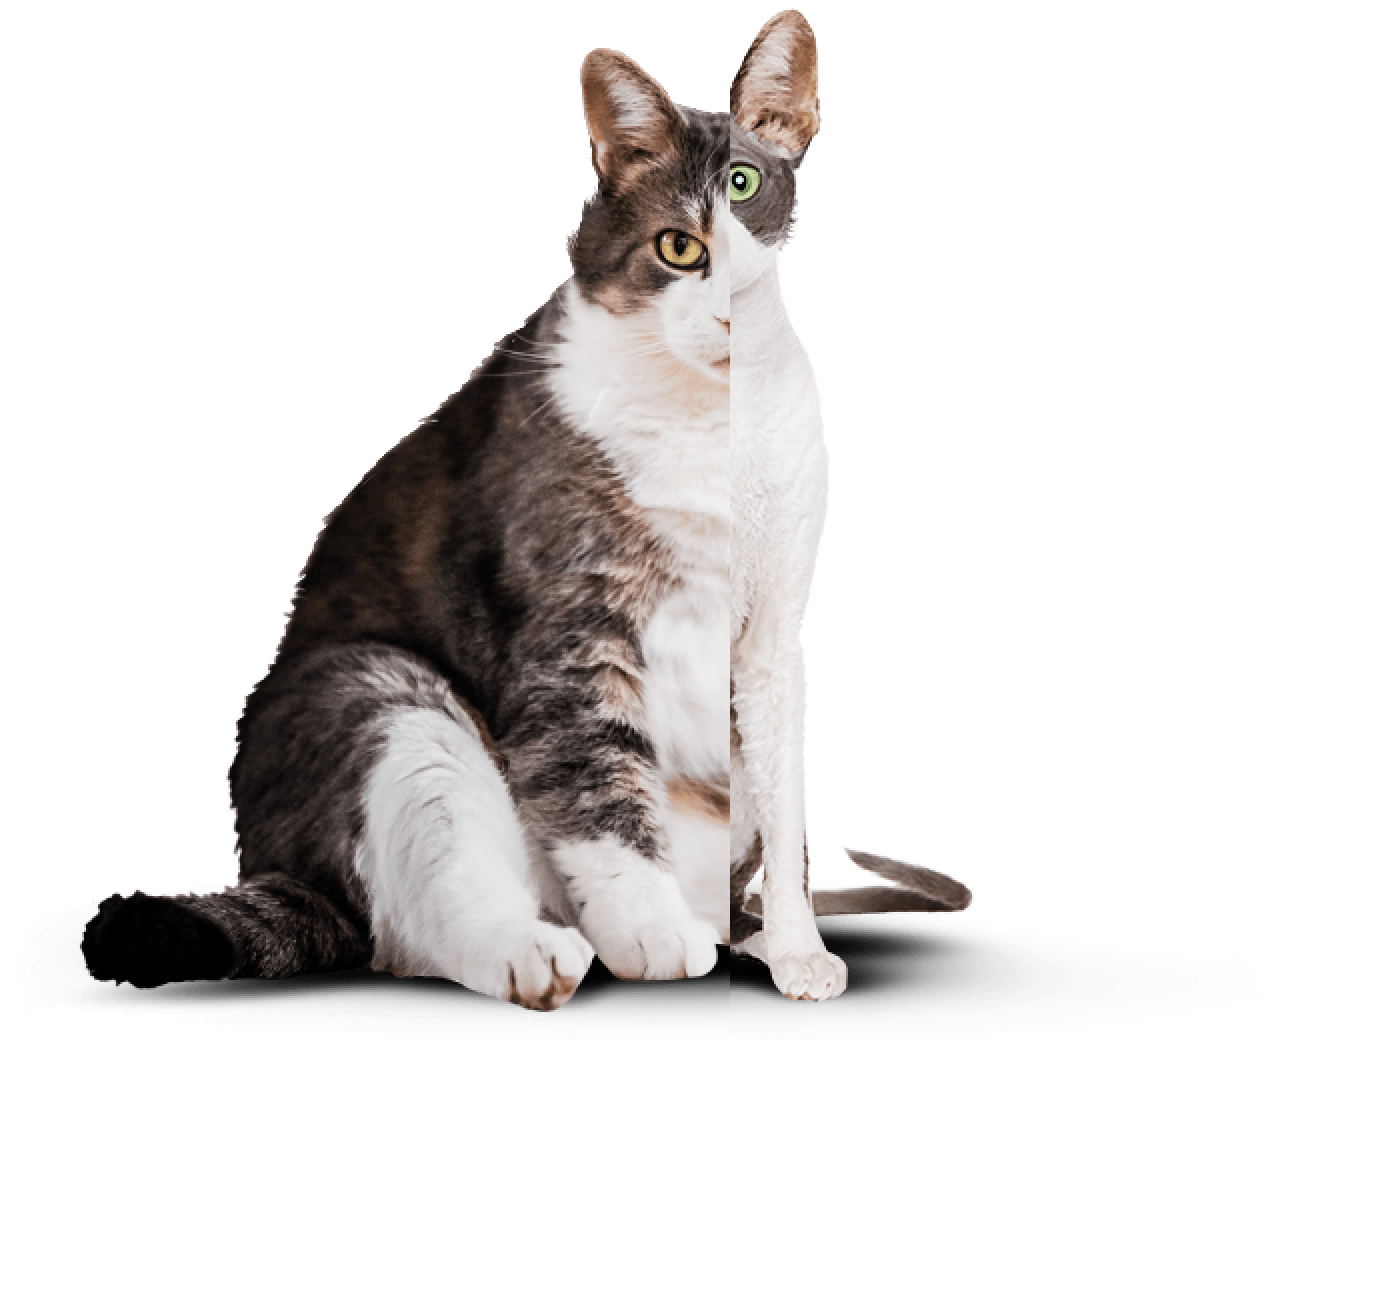
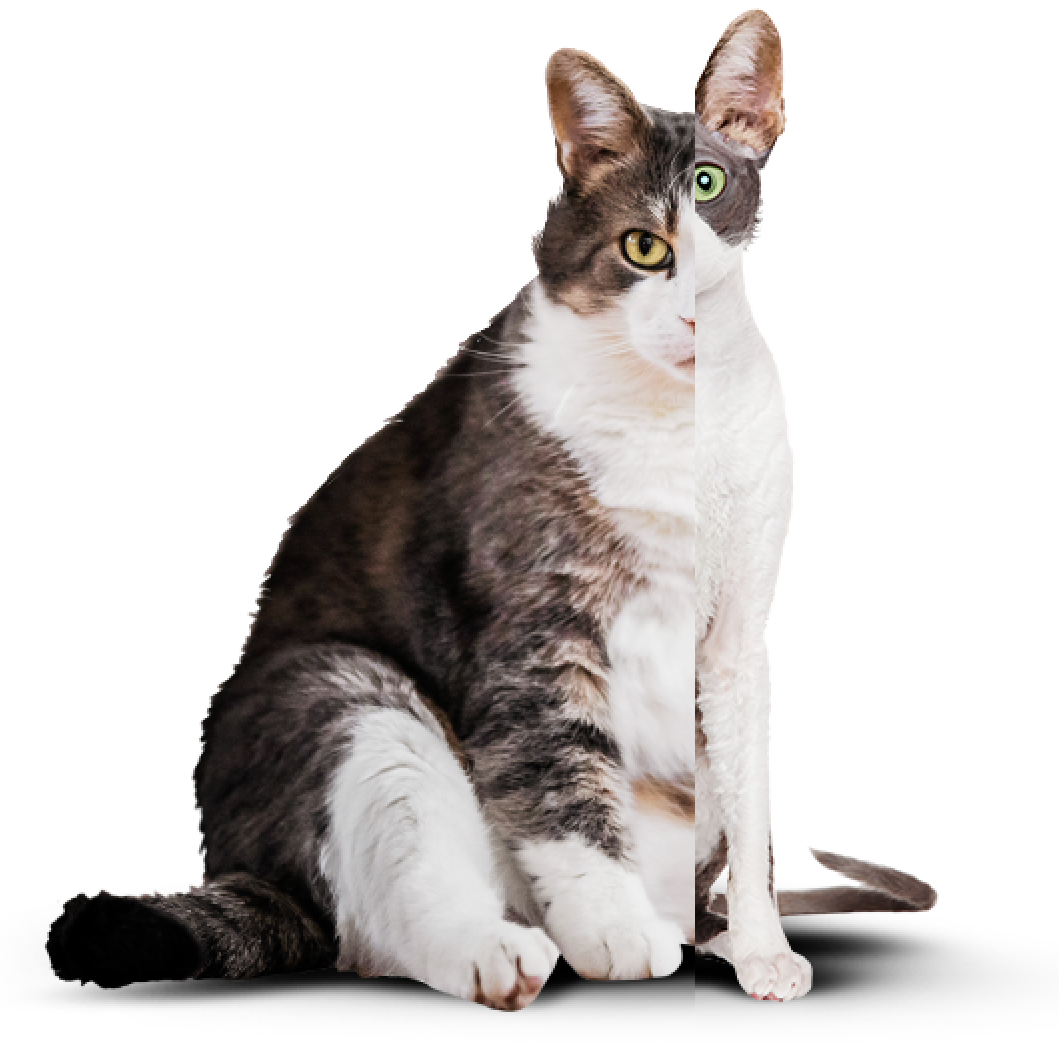
Add custom input slider

diff --git a/css/example.css b/css/example.css
@@ -1,7 +1,11 @@
 .example {
   background-color: #f2f2f2;
-  padding-top: 40px;
+  padding-top: 50px;
   padding-bottom: 40px;
+}
+.example-flex {
+  display: flex;
+  justify-content: space-between;
 }
 .example-title {
   font-weight: 400;
@@ -21,21 +25,37 @@
   margin-bottom: 68px;
 }
 .example-list {
+  position: relative;
   display: flex;
 }
 .example-item {
+  padding: 15px 30px 20px;
+  border: 1px solid #cdcdcd;
+  border-radius: 4px;
+}
+.example-item:not(:last-child) {
+  margin-right: 42px;
 }
 .example-main {
   font-weight: 400;
   font-size: 30px;
   line-height: 37px;
+  text-align: center;
+  margin-bottom: 12px;
 }
 .example-second {
+  position: absolute;
+  bottom: -4px;
+  padding: 0 5px;
+  background-color: #f2f2f2;
   font-weight: 400;
   font-size: 14px;
   line-height: 14px;
+  text-align: center;
+  color: #444444;
 }
 .example-pay {
+  margin-top: 54px;
   font-weight: 400;
   font-size: 20px;
   line-height: 20px;
@@ -45,7 +65,112 @@
 }
 .example-img {
 }
+
+.example-form {
+  display: flex;
+  align-items: center;
+  justify-content: center;
+}
+.example-label {
+  display: flex;
+  align-items: center;
+  width: 100%;
+}
+.example-slider {
+  margin: 0;
+  background-color: inherit;
+}
+/*! Стилизация для инпута */
+input[type="range"] {
+  height: 42px;
+  -webkit-appearance: none;
+  margin: 10px 0;
+  width: 100%;
+}
+input[type="range"]:focus {
+  outline: none;
+}
+input[type="range"]::-webkit-slider-runnable-track {
+  width: 100%;
+  height: 6px;
+  cursor: pointer;
+  box-shadow: 0px 0px 1px #000000;
+  background: #cdcdcd;
+  border-radius: 6px;
+  border: 0px solid #010101;
+}
+input[type="range"]::-webkit-slider-thumb {
+  box-shadow: 1px 1px 1px #000031;
+  border: 1px solid #cdcdcd;
+  height: 34px;
+  width: 34px;
+  border-radius: 20px;
+  background: #ffffff;
+  cursor: pointer;
+  -webkit-appearance: none;
+  margin-top: -14.5px;
+}
+input[type="range"]:focus::-webkit-slider-runnable-track {
+  background: #cdcdcd;
+}
+input[type="range"]::-moz-range-track {
+  width: 100%;
+  height: 6px;
+  cursor: pointer;
+  box-shadow: 0px 0px 1px #000000;
+  background: #cdcdcd;
+  border-radius: 6px;
+  border: 0px solid #010101;
+}
+input[type="range"]::-moz-range-thumb {
+  box-shadow: 1px 1px 1px #000031;
+  border: 1px solid #cdcdcd;
+  height: 34px;
+  width: 34px;
+  border-radius: 20px;
+  background: #ffffff;
+  cursor: pointer;
+}
+input[type="range"]::-ms-track {
+  width: 100%;
+  height: 6px;
+  cursor: pointer;
+  background: transparent;
+  border-color: transparent;
+  color: transparent;
+}
+input[type="range"]::-ms-fill-lower {
+  background: #cdcdcd;
+  border: 0px solid #010101;
+  border-radius: 12px;
+  box-shadow: 0px 0px 1px #000000;
+}
+input[type="range"]::-ms-fill-upper {
+  background: #cdcdcd;
+  border: 0px solid #010101;
+  border-radius: 12px;
+  box-shadow: 0px 0px 1px #000000;
+}
+input[type="range"]::-ms-thumb {
+  margin-top: 1px;
+  box-shadow: 1px 1px 1px #000031;
+  border: 1px solid #cdcdcd;
+  height: 34px;
+  width: 34px;
+  border-radius: 20px;
+  background: #ffffff;
+  cursor: pointer;
+}
+input[type="range"]:focus::-ms-fill-lower {
+  background: #cdcdcd;
+}
+input[type="range"]:focus::-ms-fill-upper {
+  background: #cdcdcd;
+}
+/*! Край инпута */
+
 .example-img__dscrpt {
+  margin-left: 6px;
   font-weight: 400;
   font-size: 20px;
   line-height: 30px;

diff --git a/index.html b/index.html
@@ -200,32 +200,49 @@
 
       <!-- Блок-примеры -->
       <section class="example" id="example">
-        <div class="container">
-          <h2 class="example-title">Живой пример</h2>
-          <p class="example-text">
-            Борис сбросил 5 кг за 2 месяца, просто заменив свой обычный корм на
-            Cat Energy Slim. Отличный результат без изнуряющих тренировок! При
-            этом он не менял своих привычек и по-прежнему спит по 16 часов в
-            день.
-          </p>
-          <ul class="example-list">
-            <li class="example-item">
-              <p class="example-main">5 КГ</p>
-              <p class="example-second">снижение веса</p>
-            </li>
-            <li class="example-item">
-              <p class="example-main">60 ДНЕЙ</p>
-              <p class="example-second">затрачено времени</p>
-            </li>
-          </ul>
-          <p class="example-pay">Затраты на питание: 15 000 РУБ.</p>
+        <div class="container example-flex">
+          <div class="example-container">
+            <h2 class="example-title">Живой пример</h2>
+            <p class="example-text">
+              Борис сбросил 5 кг за 2 месяца, просто заменив свой обычный корм
+              на Cat Energy Slim. Отличный результат без изнуряющих тренировок!
+              При этом он не менял своих привычек и по-прежнему спит по 16 часов
+              в день.
+            </p>
+            <ul class="example-list">
+              <li class="example-item">
+                <p class="example-main">5 КИЛО</p>
+                <p class="example-second">снижение веса</p>
+              </li>
+              <li class="example-item">
+                <p class="example-main">60 ДНЕЙ</p>
+                <p class="example-second">затрачено времени</p>
+              </li>
+            </ul>
+            <p class="example-pay">Затраты на питание: 15 000 РУБ.</p>
+          </div>
           <div class="example-wrap">
             <img
               class="example-img"
               src="./img/example/image_cat_desktop.png"
-              alt=""
+              alt="два котика"
+              width="690"
             />
-            <p class="example-img__dscrpt">было / стало</p>
+            <div class="example-form">
+              <label class="example-label">
+                БЫЛО
+                <input
+                  class="example-slider"
+                  type="range"
+                  name="interest_rate"
+                  value="50"
+                  min="0"
+                  max="100"
+                  step="1"
+                />
+              </label>
+              <p class="example-img__dscrpt">СТАЛО</p>
+            </div>
           </div>
         </div>
       </section>

diff --git a/css/header.css b/css/header.css
@@ -57,12 +57,21 @@
   line-height: 30px;
   text-transform: uppercase;
   padding-bottom: 6px;
-
-  /* border-bottom: 3px solid var(--white); */
-  transition: border-bottom var(--animation), color var(--animation);
 }
+
 .header-link:hover {
   color: rgb(221, 221, 221);
-  /* border-bottom: 3px solid var(--text-second); */
-  border-bottom: 3px solid rgb(221, 221, 221);
+}
+
+.header-link::after {
+  content: "";
+  display: block;
+  width: 100%;
+  height: 3px;
+  background-color: rgb(221, 221, 221);
+  transform: scale(0);
+  transition: transform var(--animation);
+}
+.header-link:hover::after {
+  transform: scale(1);
 }
